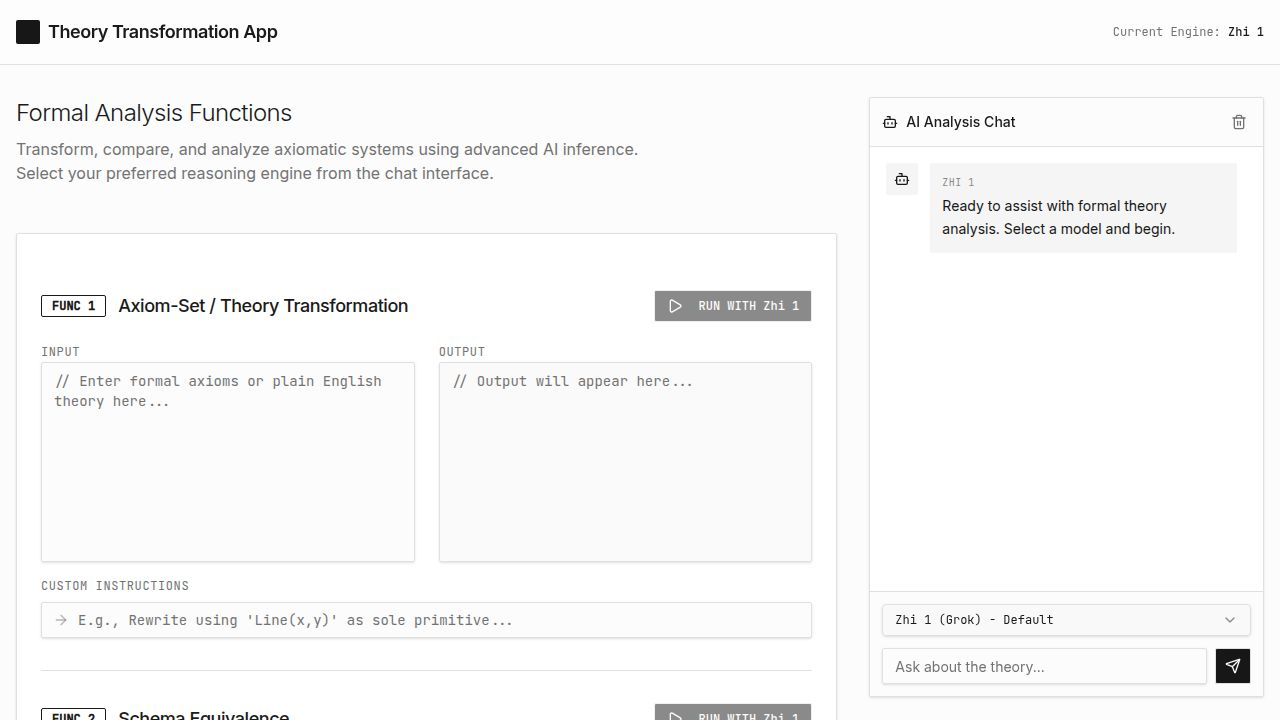
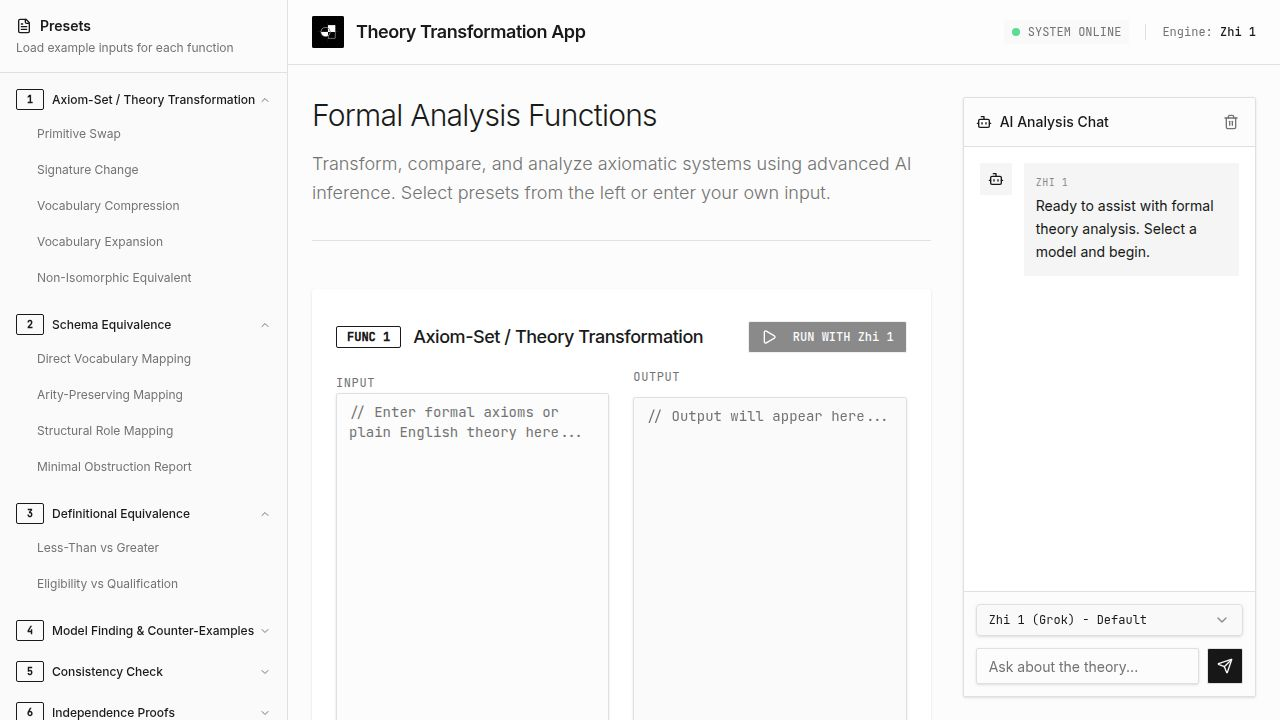
Add 4 new presets for schema equivalence function
Update client/src/components/presets-sidebar.tsx to include four new presets for Function 2 (Schema Equivalence): "Direct Vocabulary Mapping", "Arity-Preserving Mapping", "Structural Role Mapping", and "Minimal Obstruction Report".

Replit-Commit-Author: Agent
Replit-Commit-Session-Id: c00abae5-28b6-4fce-ba8a-cd70d72a6108
Replit-Commit-Checkpoint-Type: full_checkpoint
Replit-Commit-Event-Id: f66fc781-650f-4d98-9513-0c32852d38e7
Replit-Commit-Screenshot-Url: https://storage.googleapis.com/screenshot-production-us-central1/bcc16047-2de8-467e-8785-a7a65e96f6ee/c00abae5-28b6-4fce-ba8a-cd70d72a6108/9fc7sSg
Replit-Helium-Checkpoint-Created: true

diff --git a/client/src/components/presets-sidebar.tsx b/client/src/components/presets-sidebar.tsx
@@ -97,45 +97,112 @@ Axioms:
     instructions: `Generate a non-isomorphic equivalent theory: Create a structurally different theory using different primitives (e.g., Child(x,y), Ancestor(x,y)) that produces the same models up to interpretation.`
   },
   {
-    id: "schema-2a",
-    name: "Parent vs Ancestor",
-    functionId: 2,
-    input: `Schema A — Using "Parent(x, y)"
-
-Primitives:
-  Parent(x, y)
-
-Axioms:
-1. ∀x∀y [Parent(x, y) → x ≠ y]
-2. ∀x∀y∀z [(Parent(x, y) ∧ Parent(y, z)) → Parent(x, z)]
-
----
-
-Schema B — Using "Ancestor(x, y)"
-
-Primitives:
-  Ancestor(x, y)
-
-Axioms:
-1. ∀x∀y [Ancestor(x, y) → x ≠ y]
-2. ∀x∀y∀z [(Ancestor(x, y) ∧ Ancestor(y, z)) → Ancestor(x, z)]
-3. ∀x∀y [Parent(x, y) → Ancestor(x, y)]`,
-    instructions: `Determine whether Schema A and Schema B are schema-equivalent.`
-  },
-  {
-    id: "schema-2b",
-    name: "Employment Schemas",
+    id: "schema-direct-vocab",
+    name: "Direct Vocabulary Mapping",
     functionId: 2,
     input: `Schema A:
-A company employs a person if that person works for it full-time or part-time.
-A contractor is someone who performs paid labor for a company but is not employed by it.
+Primitives:
+  Point(x)
+  Line(x)
+  On(p, l)    // point p is on line l
+
+Axioms:
+1. ∀p∀l [On(p, l) → Point(p) ∧ Line(l)]
+2. ∀p∀q [Point(p) ∧ Point(q) ∧ p ≠ q → ∃!l (Line(l) ∧ On(p, l) ∧ On(q, l))]
 
 ---
 
 Schema B:
-A worker is anyone who performs labor for a company.
-Workers divide into employees (full-time or part-time) and contractors (not employees).`,
-    instructions: `Are these two schemas equivalent? Produce the mapping if they are.`
+Primitives:
+  Vertex(v)
+  Edge(e)
+  Incident(v, e)    // vertex v is incident to edge e
+
+Axioms:
+1. ∀v∀e [Incident(v, e) → Vertex(v) ∧ Edge(e)]
+2. ∀v∀w [Vertex(v) ∧ Vertex(w) ∧ v ≠ w → ∃!e (Edge(e) ∧ Incident(v, e) ∧ Incident(w, e))]`,
+    instructions: `Try to map primitive symbols 1-to-1. Find the direct vocabulary mapping: Point ↔ Vertex, Line ↔ Edge, On ↔ Incident. Verify that axioms translate correctly under this mapping.`
+  },
+  {
+    id: "schema-arity-preserve",
+    name: "Arity-Preserving Mapping",
+    functionId: 2,
+    input: `Schema A:
+Primitives:
+  R(x, y)        // 2-place relation
+  S(x, y, z)     // 3-place relation
+  P(x)           // 1-place predicate
+
+Axioms:
+1. ∀x∀y [R(x, y) → P(x) ∧ P(y)]
+2. ∀x∀y∀z [S(x, y, z) → R(x, y) ∧ R(y, z)]
+
+---
+
+Schema B:
+Primitives:
+  Connected(a, b)     // 2-place
+  Between(a, b, c)    // 3-place
+  Element(a)          // 1-place
+
+Axioms:
+1. ∀a∀b [Connected(a, b) → Element(a) ∧ Element(b)]
+2. ∀a∀b∀c [Between(a, b, c) → Connected(a, b) ∧ Connected(b, c)]`,
+    instructions: `Only allow mappings between primitives of the same arity. Match: P ↔ Element (1-place), R ↔ Connected (2-place), S ↔ Between (3-place). Verify structural preservation.`
+  },
+  {
+    id: "schema-structural-role",
+    name: "Structural Role Mapping",
+    functionId: 2,
+    input: `Schema A (Geometry):
+Primitives:
+  Point(x)
+  Line(x)
+  Parallel(l₁, l₂)     // order-relation on lines
+  Incidence(p, l)       // point lies on line
+
+Axioms:
+1. ∀l [Parallel(l, l)]
+2. ∀l₁∀l₂ [Parallel(l₁, l₂) → Parallel(l₂, l₁)]
+3. ∀p∀l₁∀l₂ [(Incidence(p, l₁) ∧ Incidence(p, l₂) ∧ l₁ ≠ l₂) → ¬Parallel(l₁, l₂)]
+
+---
+
+Schema B (Graph Theory):
+Primitives:
+  Node(x)
+  Component(x)
+  SameComponent(c₁, c₂)   // equivalence on components
+  Adjacency(n, c)          // node belongs to component
+
+Axioms:
+1. ∀c [SameComponent(c, c)]
+2. ∀c₁∀c₂ [SameComponent(c₁, c₂) → SameComponent(c₂, c₁)]
+3. ∀n∀c₁∀c₂ [(Adjacency(n, c₁) ∧ Adjacency(n, c₂) ∧ c₁ ≠ c₂) → ¬SameComponent(c₁, c₂)]`,
+    instructions: `Map primitives based on their structural roles: Parallel ↔ SameComponent (both are equivalence-like relations), Incidence ↔ Adjacency (both are membership/containment relations). Analyze whether the role-based mapping preserves all theorems.`
+  },
+  {
+    id: "schema-obstruction",
+    name: "Minimal Obstruction Report",
+    functionId: 2,
+    input: `Schema A:
+Primitives:
+  Likes(x, y)
+
+Axioms:
+1. ∀x [Likes(x, x)]                              (Reflexive)
+2. ∀x∀y [Likes(x, y) → Likes(y, x)]              (Symmetric)
+
+---
+
+Schema B:
+Primitives:
+  Prefers(x, y)
+
+Axioms:
+1. ∀x [Prefers(x, x)]                            (Reflexive)
+2. ∀x∀y [Prefers(x, y) ∧ Prefers(y, x) → x = y]  (Antisymmetric)`,
+    instructions: `If equivalence fails, return the smallest obstruction automatically. Identify the minimal axiom or axiom pair that blocks the equivalence mapping. Expected obstruction: symmetry vs antisymmetry conflict.`
   },
   {
     id: "defn-3a",
